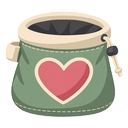
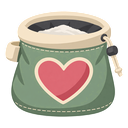
Show chalk powder in item artwork and compact pre-stage inventory layout

diff --git a/styles.css b/styles.css
@@ -404,8 +404,8 @@ button.modal-close:focus-visible { outline:none; }
 @media (max-width:350px) { .stage-start-info { padding-left:6px; } .stage-start-info dd { font-size:12px; } }
 #stageStartButton { display:block; width:100%; min-height:44px; margin-top:0; font-size:15px; }
 
-.stage-heart-items { margin:0 0 14px; padding:10px; border-radius:12px; background:#eee9df; }
-#stageHeartOwned { margin-bottom:16px; font-size:12px; font-weight:700; text-align:right; white-space:nowrap; }
+.stage-heart-items { margin:0 0 14px; padding:12px 10px 8px; border-radius:12px; background:#eee9df; }
+#stageHeartOwned { align-self:flex-end; flex:none; min-width:2ch; margin:0 0 2px; font-size:14px; line-height:16px; font-weight:700; text-align:left; white-space:nowrap; font-variant-numeric:tabular-nums; }
 .stage-heart-controls { display:flex; align-items:center; justify-content:center; gap:6px; font-size:20px; line-height:1; font-weight:800; font-variant-numeric:tabular-nums; white-space:nowrap; }
 .stage-start-stamina.stamina-heart { position:relative; top:auto; left:auto; flex:none; }
 .stage-heart-quantity { position:relative; }

diff --git a/index.html b/index.html
@@ -181,7 +181,6 @@
                 </dl>
             </div>
             <div class="stage-heart-items" role="group" aria-label="開始スタミナと使用するハート">
-                <div id="stageHeartOwned"></div>
                 <div class="stage-heart-controls">
                     <div class="stamina-heart stage-start-stamina">
                     <svg viewBox="0 0 100 90" aria-hidden="true">
@@ -202,6 +201,7 @@
                         <button id="stageHeartCount" aria-label="ハートを1個追加"><span class="heart-item-stack"><img class="heart-item-icon" src="assets/heart-item-chalk-bag.png" width="52" height="48" alt="" aria-hidden="true" draggable="false"><span id="stageHeartValue" class="heart-item-quantity">00</span></span></button>
                         <button id="stageHeartReset" aria-label="使用するハートを0個に戻す">✖</button>
                     </div>
+                    <span id="stageHeartOwned" aria-label="所持ハート"></span>
                 </div>
             </div>
             <button id="stageStartButton">スタート</button>

diff --git a/js/level-map.js b/js/level-map.js
@@ -212,7 +212,8 @@ function advanceLevelMap(now) {
 let stageStartContext=null,stageStartTimer=null;
 function renderStageHeartItems() {
     const context=stageStartContext;if(!context)return;
-    ui.stageHeartOwned.textContent=`所持 ${heartItems-context.hearts}個`;
+    ui.stageHeartOwned.textContent=String(heartItems-context.hearts);
+    ui.stageHeartOwned.setAttribute('aria-label',`所持ハート ${heartItems-context.hearts}個`);
     ui.stageHeartValue.textContent=String(context.hearts).padStart(2,'0');
     ui.stageHeartCount.setAttribute('aria-label',`使用ハート ${context.hearts}個、タップで1個追加`);
     ui.stageHeartCount.disabled=context.hearts===heartItems;

diff --git a/GAME_SPEC.md b/GAME_SPEC.md
@@ -374,3 +374,5 @@ node tests/stage-setup.cjs
 ボタンとボタン役の要素は `touch-action: manipulation` で連続タップ時のダブルタップ拡大を抑止する。マップの褒賞キラキラ4点はステージアイコンの輪郭近くに寄せる。プレイヤーの胴体中央にあった2列×3行の6点は表示しない。
 
 ルーレットのアイテム個数は開始前ボタンと同じ白文字・グレー縁で01／05／10を右下に重ね、ライフ区画はプレイヤーアイコンだけを中央に表示する。ライフ獲得結果も＋1文字を付けずアイコンのみとする（上限時の案内は維持）。次レベル到着時は現在地の色とエフェクトを更新し、500msの表示待ちの後に手数・開始スタミナを計算し、開始前モーダルを開く。待機中の画面変更では計算とモーダルをキャンセルする。
+
+チョークバッグの口には粉の山の先端が少し見えるようにする。開始前モーダルのアイテム所持数は数字だけをボタンの右側・下揃えで表示し、読み上げラベルには所持数であることを残す。以前の所持数専用行と上部余白を削ってモーダルをコンパクトにする。
